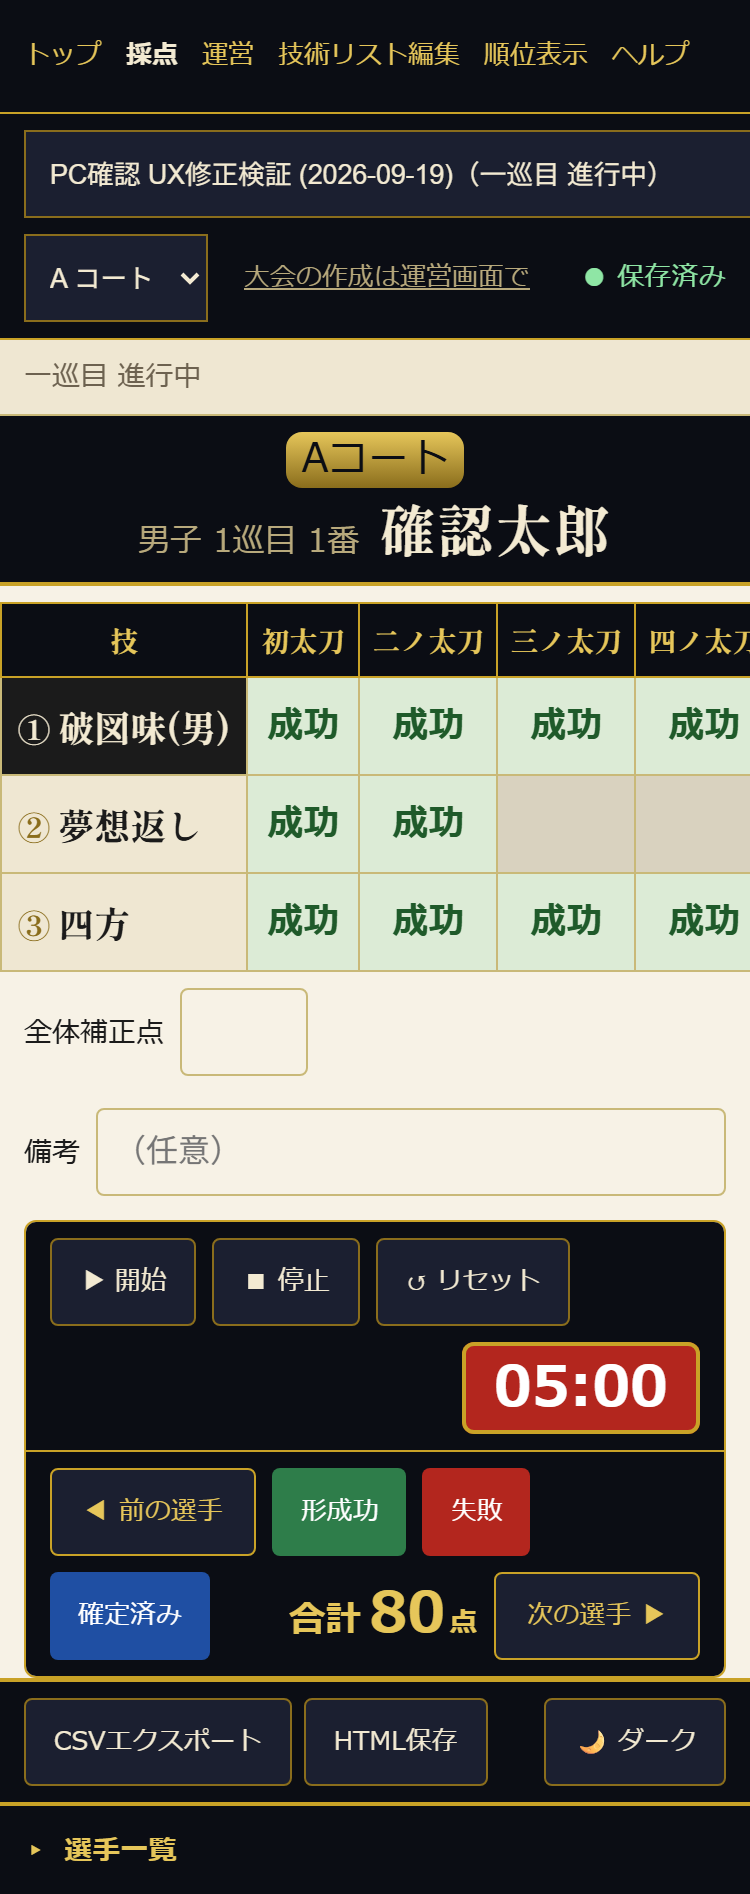
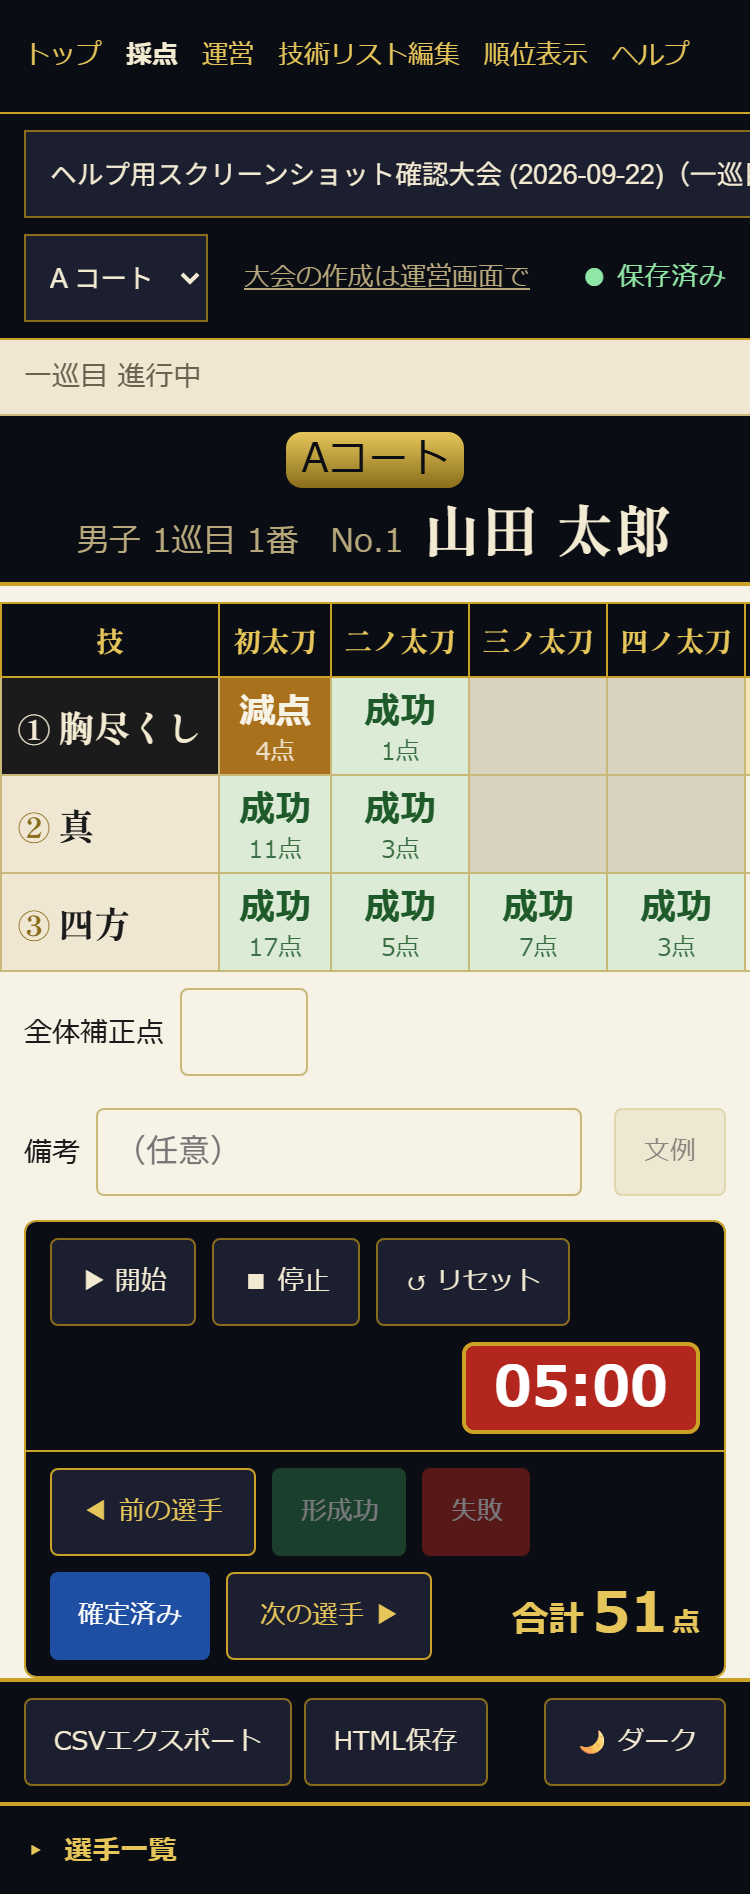
docs: 採点画面のスクリーンショット3枚を撮り直す
scoring_tablet.png（確定済み）・scoring_tablet_unconfirmed.png（未確定）・
scoring_mobile.png を、ゼッケン No.・文例ボタン・操作区画の並び（前の選手・
形成功・失敗・確定・次の選手、右端に合計）・胸尽くしの初太刀「減点」（△）が
写る状態で撮り直す。確認用の大会（選手3名、技に胸尽くしを含む、1名確定済み、
1名は一部成功/失敗で未確定）をAPI経由で作り、ヘッドレスChromeをCDPで開いて
1024幅/375幅の@2xで撮影、確認後に削除した。

⑦選手一覧の figcaption にゼッケン列の説明を足す。

diff --git a/help.html b/help.html
@@ -491,7 +491,7 @@
           <li>④<span class="ui">全体補正点</span>・<span class="ui">備考</span> — <span class="ui">全体補正点</span> は選手全体に効きます。<span class="ui">備考</span> は得点に影響しません（200文字まで）。右の <span class="ui">文例</span> ボタンを押すと「間合い確認・素振りをしたため無効」などのよくある理由を一覧から選んで備考の末尾に追記できます（2つ目以降は「、」で区切られ、同じ文例は二重に足されません）。</li>
           <li>⑤操作区画 — <span class="term">1段目がタイマー</span>（<span class="ui">▶ 開始</span> <span class="ui">■ 停止</span> <span class="ui">↺ リセット</span>。5分から0へ向かって数え、選手を切り替えると自動で <span class="ui">05:00</span> に戻ります）、<span class="term">2段目が</span> <span class="ui">◀ 前の選手</span> <span class="ui">形成功</span> <span class="ui">失敗</span> <span class="ui">確定</span> <span class="ui">次の選手 ▶</span>（右端に <span class="ui">合計</span>）です。<span class="ui">形成功</span> <span class="ui">失敗</span> はどちらも選択中の行にだけ効きます。<span class="ui">形成功</span> は打つ太刀を全部「成功」に、<span class="ui">失敗</span> は最初の「未」のセルだけを「失敗」にします（すでに成功・失敗のセルは変えません）。<span class="ui">確定</span> を押すと <span class="ui">確定済み</span> になり、得点と合計が青くなります。得点に関わる編集をすると、自動で確定が外れます。</li>
           <li>⑥ツールバー — <span class="ui">CSVエクスポート</span> で全選手の内訳を、<span class="ui">HTML保存</span> で成績表を保存できます。<span class="ui">🌙 ダーク</span> で暗い配色に切り替わります。</li>
-          <li>⑦選手一覧 — 行をタップするとその選手に切り替わります。見出しの <span class="ui">▾ 選手一覧</span> で開閉できます。</li>
+          <li>⑦選手一覧 — 順番・<span class="ui">ゼッケン</span>・選手名・技1〜3・得点の表です。行をタップするとその選手に切り替わります。見出しの <span class="ui">▾ 選手一覧</span> で開閉できます。</li>
         </ul>
       </figcaption>
     </figure>
